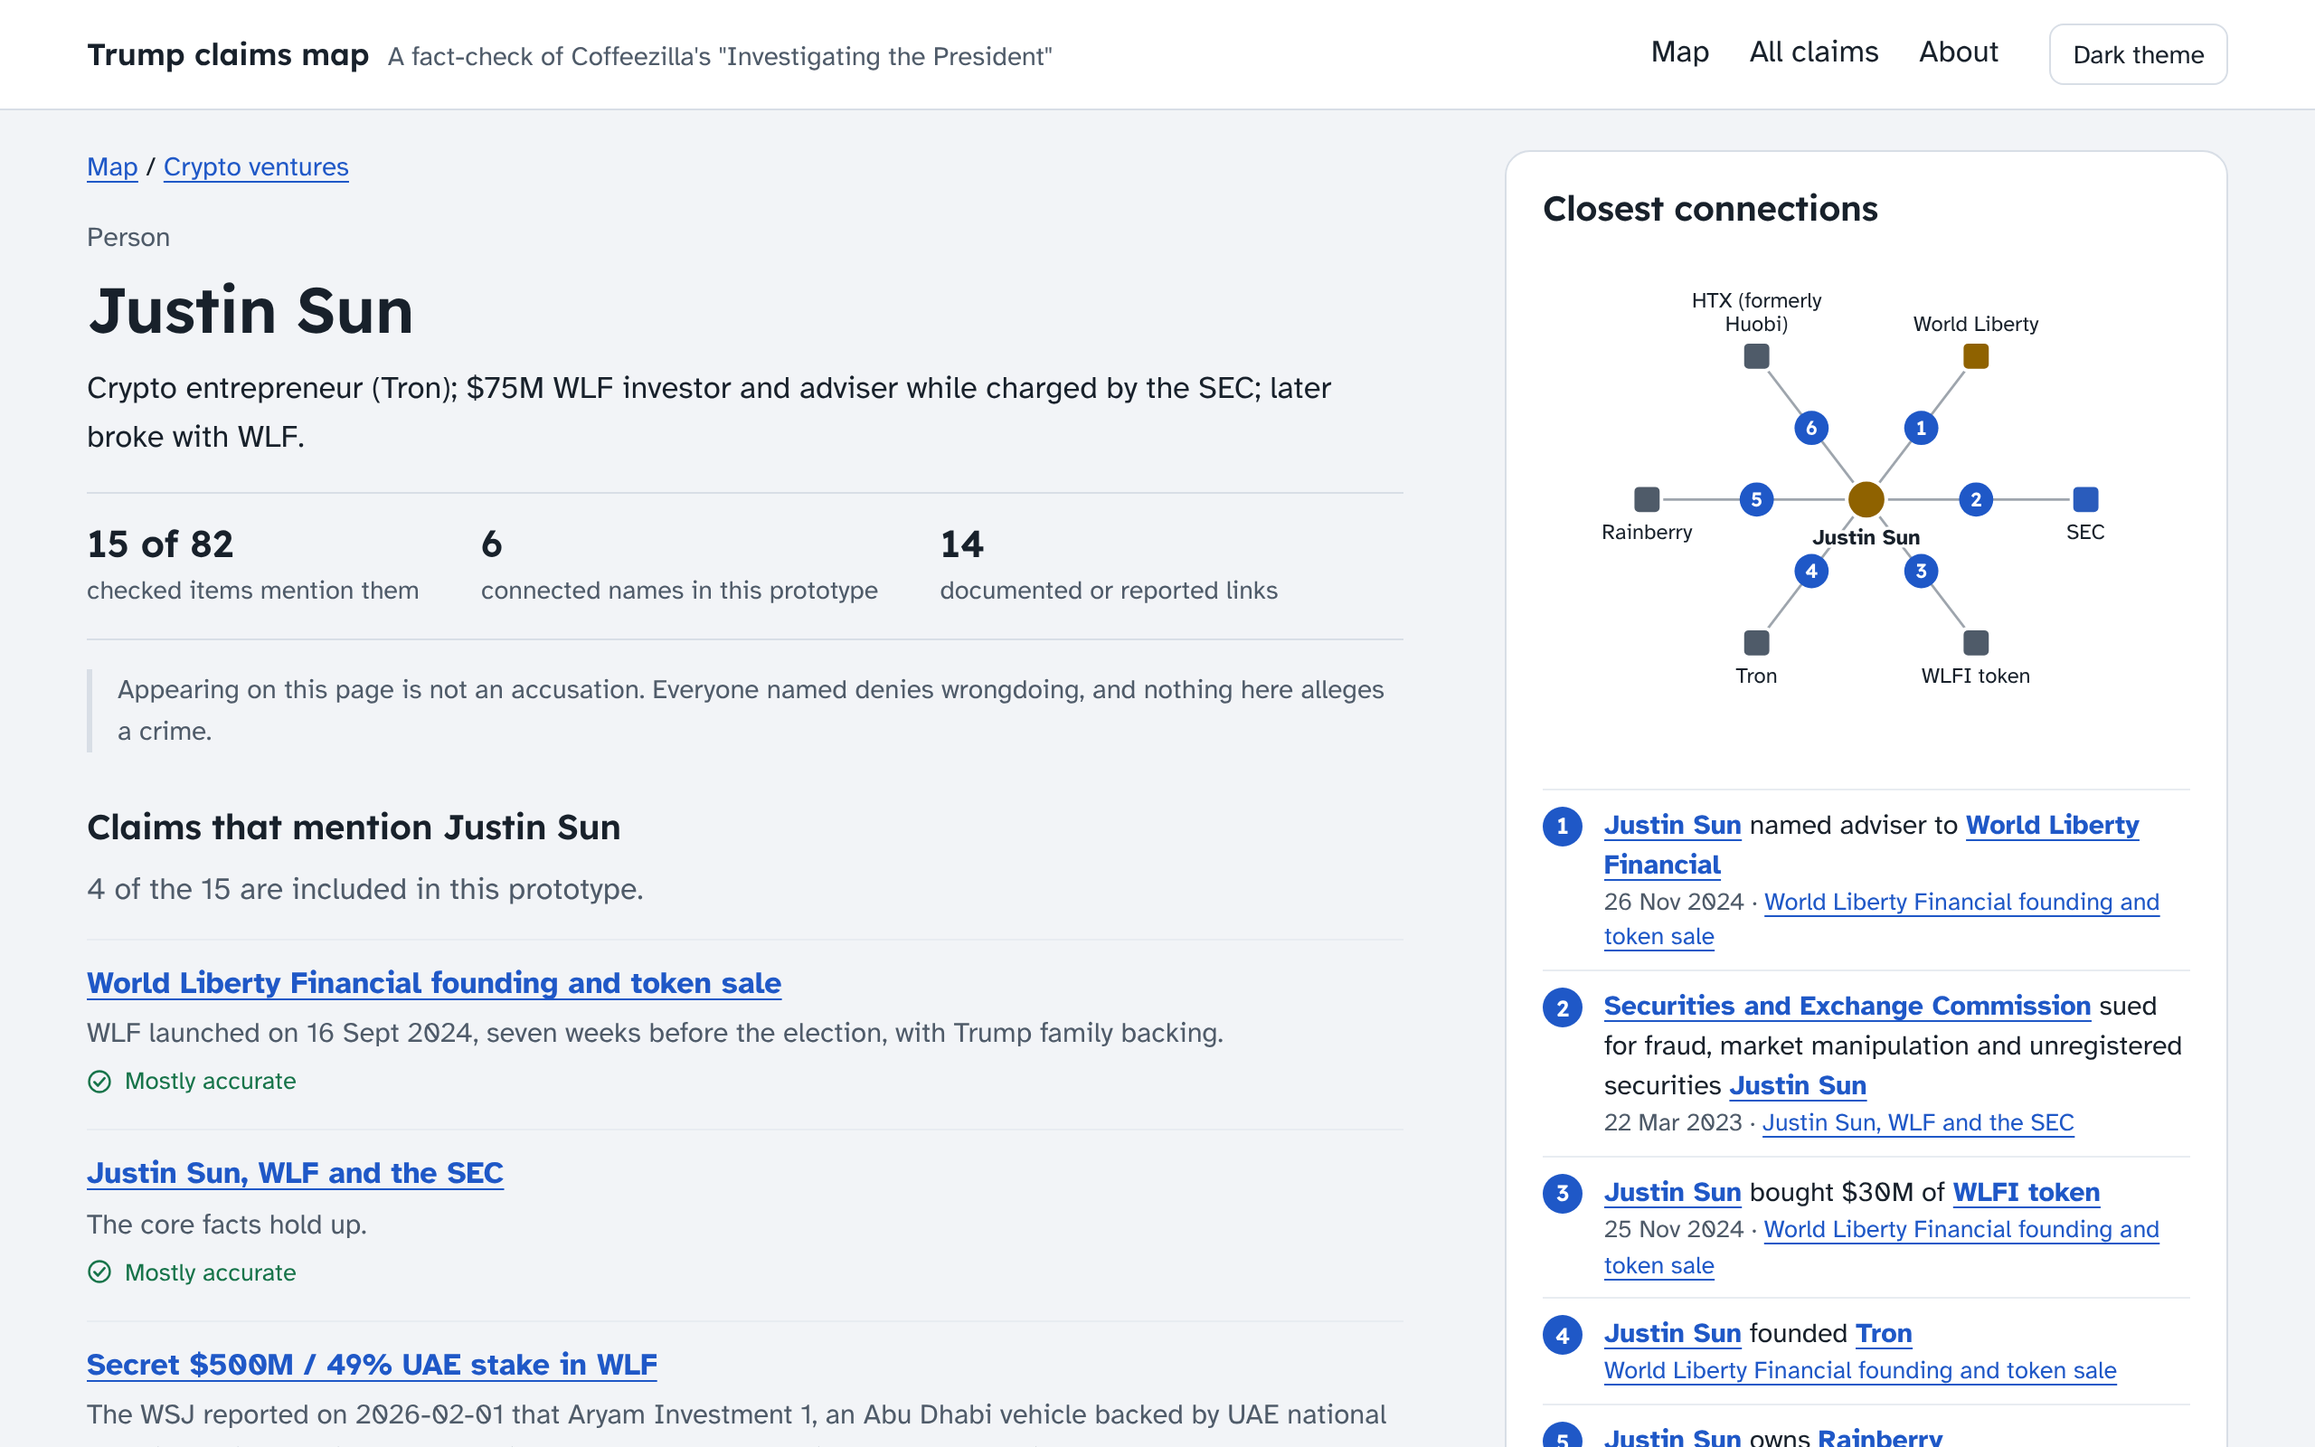
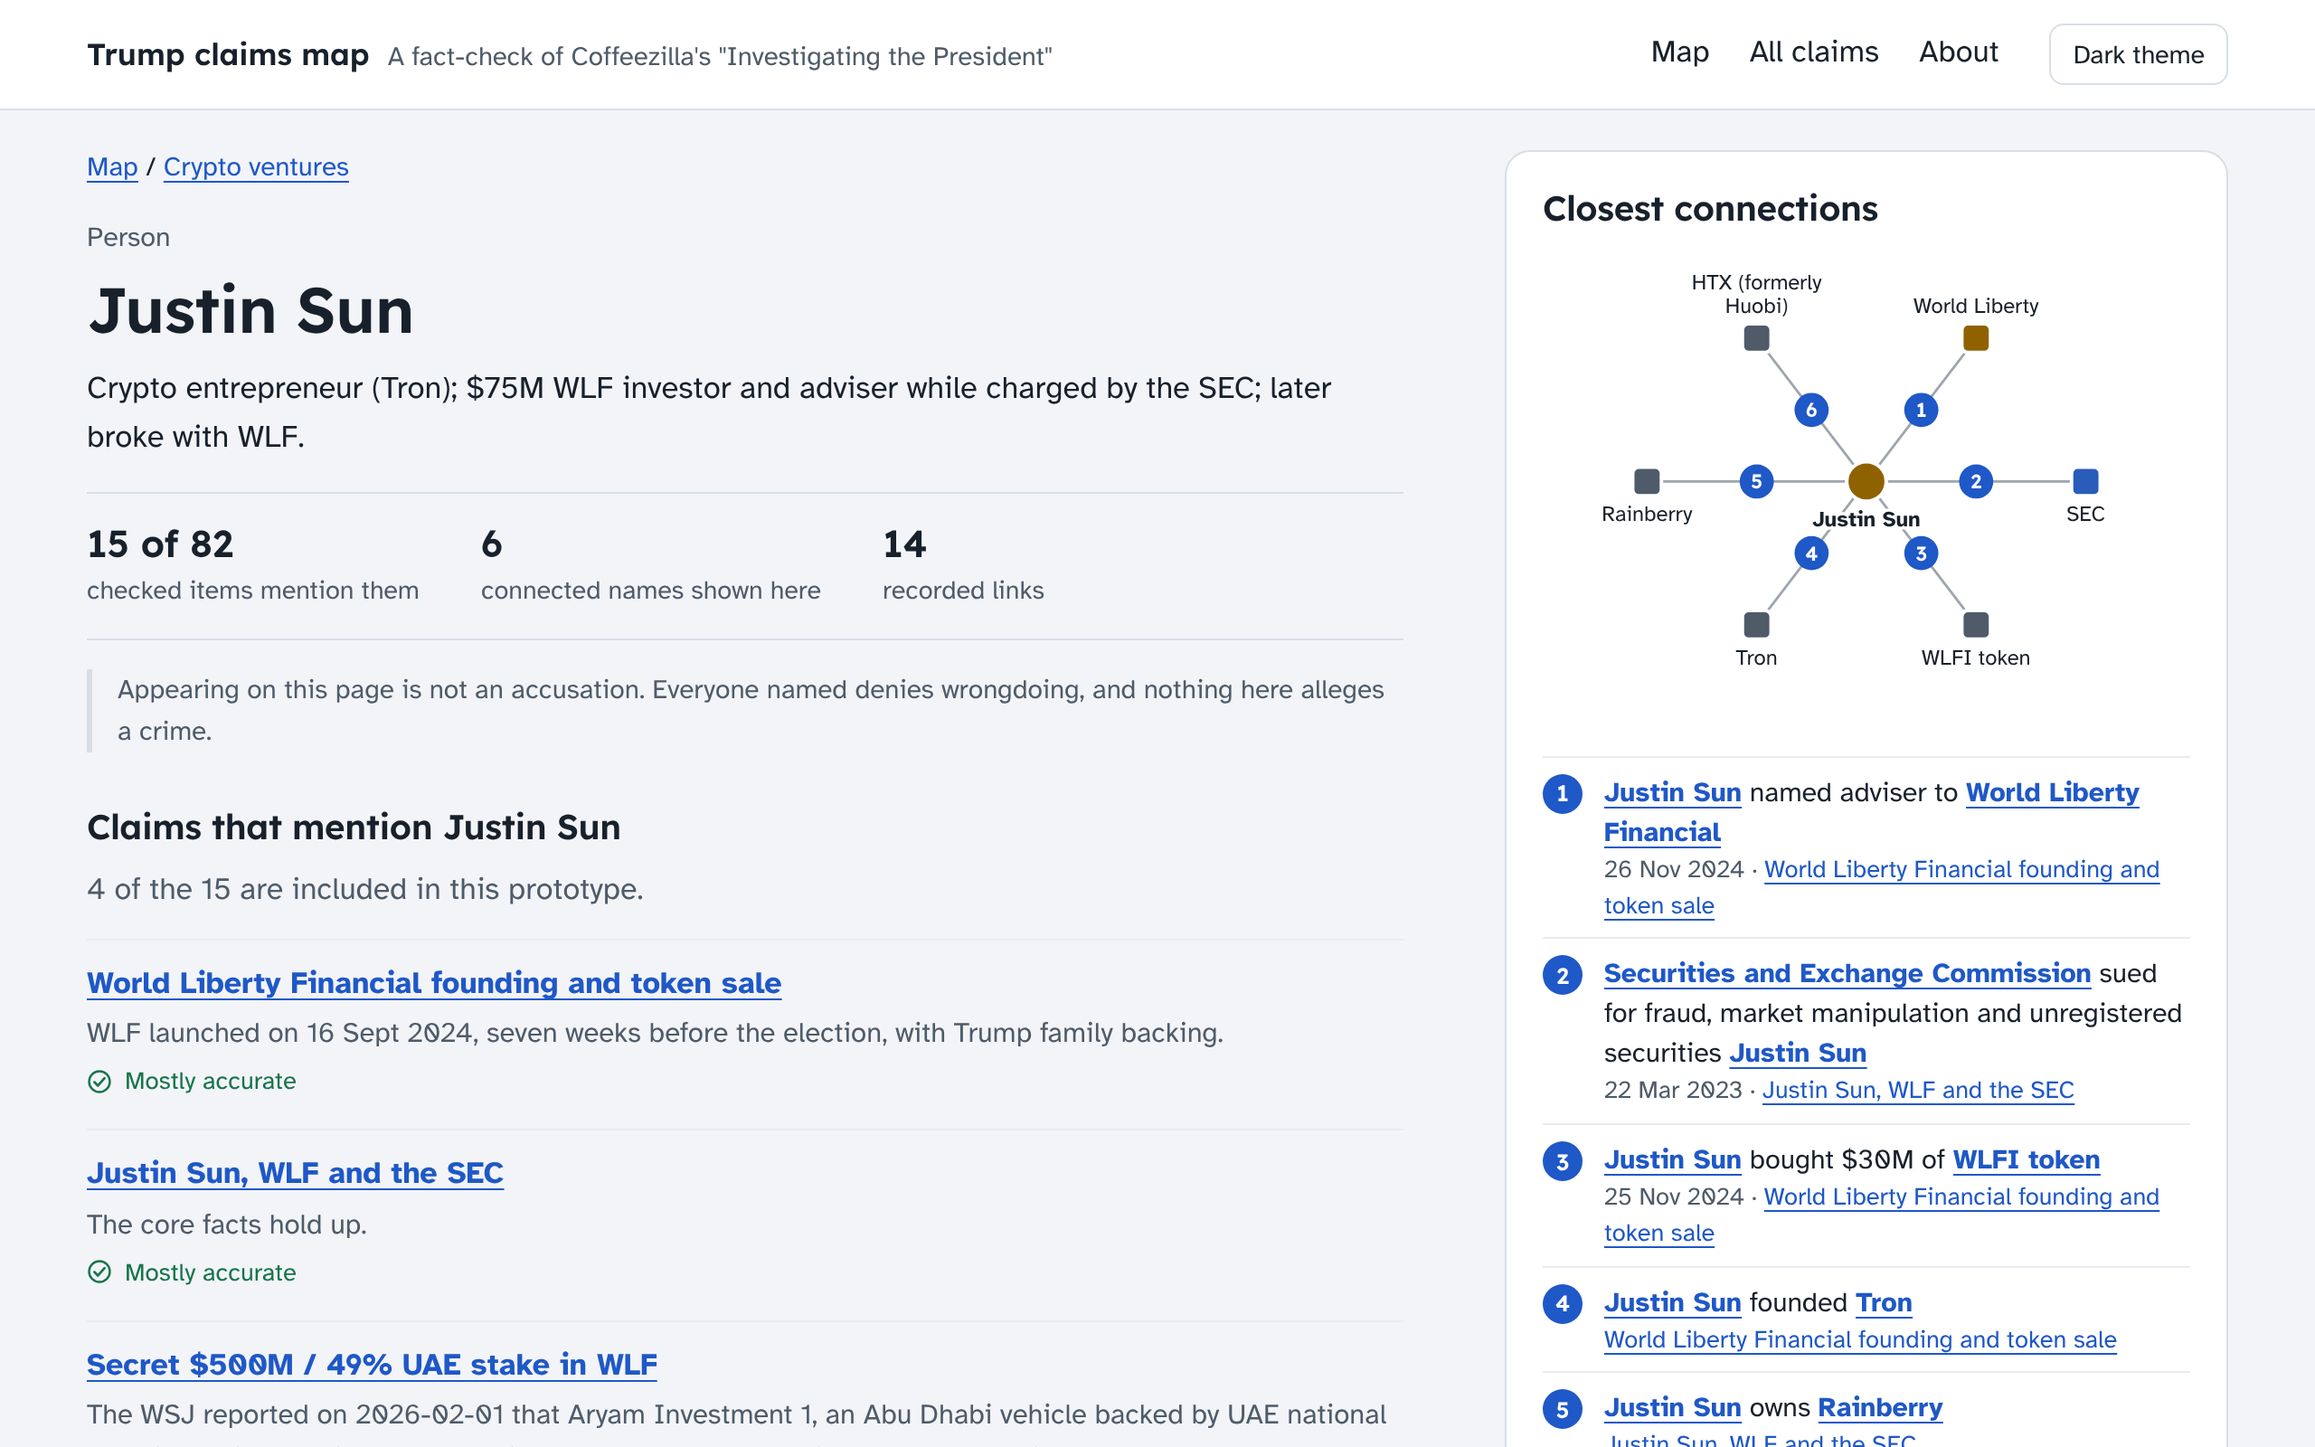
Add design concept B: explorer prototype
Claude-Session: https://claude.ai/code/session_01XYvbbQtYM3GBHoPFVLJaGe

diff --git a/design/concept-guided-map/index.html b/design/concept-guided-map/index.html
@@ -88,7 +88,7 @@ p{margin:0 0 .8em}
 
 .mapwrap{display:grid;grid-template-columns:minmax(0,1fr) 350px;background:var(--surface);border:1px solid var(--line);border-radius:14px;overflow:hidden}
 .mapbox{background:var(--map-bg);position:relative;min-width:0}
-.mapbox svg{display:block;width:100%;height:auto}
+.mapbox>svg{display:block;width:100%;height:auto}
 .panel{border-left:1px solid var(--line);padding:22px 22px 20px;min-width:0}
 .panel h2{margin-bottom:6px}
 .panel p{font-size:.97rem}
@@ -142,6 +142,7 @@ footer p{max-width:80ch}
 .isl-title{font:600 15px var(--head);fill:var(--ink);text-anchor:middle}
 .isl-sub{font:400 12.5px var(--body);text-anchor:middle}
 .lk{fill:none;stroke:var(--ink2);stroke-opacity:.38;stroke-width:1.4}
+.lk.faint{stroke-opacity:.16}
 .lk.hi{stroke:var(--accent);stroke-opacity:1;stroke-width:2.6}
 .nd{cursor:pointer}
 .nd text{font:400 12.5px var(--body);fill:var(--ink);text-anchor:middle;paint-order:stroke;stroke-width:3.5px;stroke-linejoin:round}
@@ -194,7 +195,7 @@ details{margin-top:8px}
 summary{cursor:pointer;color:var(--accent)}
 .names{list-style:none;margin:6px 0 0;padding:0;columns:2;column-gap:18px;font-size:.93rem}
 .names li{padding:2px 0;break-inside:avoid}
-.facts{display:flex;flex-wrap:wrap;gap:6px 34px;margin:16px 0 0;padding:14px 0;border-top:1px solid var(--line);border-bottom:1px solid var(--line);list-style:none}
+.facts{display:flex;flex-wrap:wrap;gap:8px 34px;margin:16px 0 0;padding:14px 0;border-top:1px solid var(--line);border-bottom:1px solid var(--line);list-style:none}
 .facts b{font:600 1.3rem var(--head);display:block}
 .facts span{font-size:.9rem;color:var(--ink2)}
 .rel{line-height:1.45}
@@ -230,6 +231,9 @@ summary{cursor:pointer;color:var(--accent)}
   .isl-sub{font-size:11.5px}
   .aside{margin:22px -16px 0;border-radius:0;border-left:0;border-right:0;padding:18px 16px 12px}
   .names{columns:1}
+  .facts{gap:8px 22px}
+  .facts b{font-size:1.15rem}
+  .facts span{font-size:.84rem}
 }
 </style>
 </head>
@@ -436,7 +440,8 @@ function linksSvg(pos,o){
     const c=curve(pos[l.a],pos[l.b],.1);
     if(hi){over+='<path class="lk hi" d="'+c.d+'"/>';
       if(o.number){k++;nums[l.id]=k;badges+='<g class="badge"><circle cx="'+c.mx.toFixed(1)+'" cy="'+c.my.toFixed(1)+'" r="9.5"/><text x="'+c.mx.toFixed(1)+'" y="'+(c.my+4).toFixed(1)+'">'+k+'</text></g>';}}
-    else if(!o.local||NODE[l.a].topic===NODE[l.b].topic)under+='<path class="lk'+((o.hiLinks||o.sel)?' dim':'')+'" d="'+c.d+'"/>';
+    else{const same=NODE[l.a].topic===NODE[l.b].topic;if(o.local&&!same)return;if(o.topic&&NODE[l.a].topic!==o.topic&&NODE[l.b].topic!==o.topic)return;
+      under+='<path class="lk'+((o.hiLinks||o.sel)?' dim':(o.topic&&!same?' faint':''))+'" d="'+c.d+'"/>';}
   });
   return {under,over,badges,nums};
 }
@@ -479,7 +484,7 @@ function drawTopic(t,o){
     pos[n.id]={x:Math.round(ix+(c+.5)*iw/cols+(r%2?(ph?10:26):-(ph?10:26))*(cols>2?1:.6)),y:Math.round(iy+(ph?80:92)+r*(ph?92:120)+(c%2?(ph?14:22):0))};
   });
   outs.forEach((n,j)=>{pos[n.id]={x:Math.round(ix+(j+.5)*iw/outs.length),y:iy+ih+(ph?50:48)}});
-  const L=linksSvg(pos,{sel:o.sel,number:!!o.sel});
+  const L=linksSvg(pos,{sel:o.sel,number:!!o.sel,topic:t});
   let s='<svg viewBox="0 0 '+W+' '+H+'" role="group" aria-label="'+esc(TOPICS[t].name)+': names and how they connect">'
    +'<path d="'+blob(ix,iy,iw,ih,2.2)+'" fill="var(--t-'+t+')" stroke="var(--s-'+t+')" stroke-opacity=".45" stroke-width="1.5"/>'
    +'<text class="isl-title" style="font-size:'+(ph?16:18)+'px" x="'+W/2+'" y="'+(iy+(ph?32:38))+'">'+esc(TOPICS[t].name)+'</text>';
@@ -546,8 +551,9 @@ function viewMap(r){
     panel=sel?panelNode(sel,m.nums,'#/','Whole map'):panelHome();
   }
   const groups={};Object.keys(CLAIM_TOPIC).forEach(c=>(groups[CLAIM_TOPIC[c]]=groups[CLAIM_TOPIC[c]]||[]).push(c));
-  return (tour&&phone()?'':'<section class="intro"><h1>What holds up in "Investigating the President"?</h1><p>An independent check of the 30 claims in Coffeezilla\'s 40-minute video, and of 52 follow-up questions.</p>'+tallyHtml()+'</section>')
-   +'<section class="mapwrap'+(tour?' tour':'')+'" style="'+(tour&&phone()?'margin-top:0':'')+'"><div class="mapbox" id="mapbox">'+m.svg+KEY+'</div><div class="panel" id="panel" aria-live="polite">'+panel+'</div></section>'
+  const compact=phone()&&r.length>0;
+  return (compact?'':'<section class="intro"><h1>What holds up in "Investigating the President"?</h1><p>An independent check of the 30 claims in Coffeezilla\'s 40-minute video, and of 52 follow-up questions.</p>'+tallyHtml()+'</section>')
+   +'<section class="mapwrap'+(tour?' tour':'')+'" style="'+(compact?'margin-top:0;border-top:0':'')+'"><div class="mapbox" id="mapbox">'+m.svg+KEY+'</div><div class="panel" id="panel" aria-live="polite">'+panel+'</div></section>'
    +'<p class="note">Everyone named denies wrongdoing, and nothing here is an accusation of a crime. A line means two names appear in the same documented relationship, not that one caused the other.</p>'
    +'<section class="section"><h2>The same claims as a list</h2><p class="muted">Everything on the map can also be read here, grouped by topic.</p><div class="topicgrid">'
    +Object.keys(groups).map(t=>'<div><h3><span class="sw" style="background:var(--t-'+t+');border-color:var(--s-'+t+')"></span><a href="#/topic/'+t+'" style="color:inherit">'+esc(TOPICS[t].name)+'</a></h3>'+claimList(groups[t])+'</div>').join('')+'</div></section>';
@@ -555,7 +561,7 @@ function viewMap(r){
 function diagram(center,rels){
   /* rels: [{s,t,l}] already numbered in order; center id */
   const others=[];rels.forEach(r=>[r.s,r.t].forEach(x=>{if(x!==center&&!others.includes(x))others.push(x)}));
-  const W=360,H=300,cx=180,cy=150,pos={};pos[center]={x:cx,y:cy};
+  const W=360,H=282,cx=180,cy=140,pos={};pos[center]={x:cx,y:cy};
   others.forEach((id,i)=>{const a=-Math.PI/2+i/others.length*Math.PI*2+(others.length%2?0:Math.PI/others.length);
     pos[id]={x:cx+122*Math.cos(a),y:cy+92*Math.sin(a)}});
   let s='<svg viewBox="0 0 '+W+' '+H+'" role="img" aria-label="Diagram of the numbered connections listed below">';
@@ -634,7 +640,7 @@ function viewName(id){
   if(n)aside+='<p style="margin:10px 0 6px"><a href="#/topic/'+n.topic+'/'+id+'">Find '+esc(e.name)+' on the map</a></p>';
   const lead='<p class="crumb"><a href="#/">Map</a>'+(n?' / <a href="#/topic/'+n.topic+'">'+esc(TOPICS[n.topic].name)+'</a>':'')+'</p>'
    +'<p class="kicker">'+(TYPE[e.type]||'Name')+'</p><h1>'+esc(e.name)+'</h1><p style="margin-top:10px;font-size:1.08rem;max-width:62ch">'+esc(e.desc)+'</p>'
-   +'<ul class="facts"><li><b>'+e.n+' of '+DATA.meta.claims+'</b><span>checked items mention '+(e.type==='person'?'them':'it')+'</span></li><li><b>'+others.size+'</b><span>connected names in this prototype</span></li><li><b>'+rels.length+'</b><span>documented or reported links</span></li></ul>'
+   +'<ul class="facts"><li><b>'+e.n+' of '+DATA.meta.claims+'</b><span>checked items mention '+(e.type==='person'?'them':'it')+'</span></li><li><b>'+others.size+'</b><span>connected names shown here</span></li><li><b>'+rels.length+'</b><span>recorded links</span></li></ul>'
    +'<p class="note" style="margin-top:16px">Appearing on this page is not an accusation. Everyone named denies wrongdoing, and nothing here alleges a crime.</p>';
   let rest='<section class="block"><h2>Claims that mention '+(e.type==='person'?esc(e.name.split(' ').slice(-1)[0]==='Jr.'?e.name:e.name):esc(e.name))+'</h2><p class="muted">'+e.claims.length+' of the '+e.n+' are included in this prototype.</p>'
     +'<ul class="items">'+e.claims.map(cid=>'<li><a class="st" href="#/claim/'+cid+'">'+esc(C[cid].title)+'</a><span class="fd">'+esc(C[cid].summary.split(/(?<=[.!?])\s/)[0])+'</span>'+vmark(C[cid].verdict)+'</li>').join('')+'</ul>'

diff --git a/design/concept-explorer/README.md b/design/concept-explorer/README.md
@@ -1,0 +1,57 @@
+# Concept B: Explorer
+
+A reference site that starts from names. You look up a person or organisation and get a profile: who they are, who they are linked to, what happened in order, how much money moved, and which checked claims mention them. Claims are the evidence behind every line, one click away.
+
+Open `index.html` directly in a browser. Screens: home (`#/`), claim (`#/claim/C05`, also `#/claim/C46` for an unverified item), profile (`#/who/justin-sun`, `#/who/jared-kushner`, `#/who/world-liberty-financial`), and a browse list (`#/browse`).
+
+## Who it is for
+
+Someone who watched the video, or heard a name in the news, and wants to ask "what is actually known about this person or company?" They are not an analyst. They arrive with a name more often than with a claim number, and they want a straight answer with the caveats attached.
+
+## Information hierarchy
+
+1. **Home**: one sentence on what this is, a large search box, the standing note, and the verdict tally. Then the most-named people and organisations, the claims with verdicts, recurring themes, and how the checking was done.
+2. **Profile** (person or organisation): name, kind and one-line description; a note that they deny wrongdoing; closest connections (small diagram); what happened in order; all connections grouped by the other party; claims that mention them; largest sums.
+3. **Claim**: what the video said; verdict, confidence and second review; bottom line; what holds up; what needs correcting; what is unproven; the other side; dated events; sources; related claims. Who is involved and the money mentioned sit alongside.
+
+Every relationship line names the actor, what they did, the date and the claim it comes from, so a reader can always get from a connection to its evidence.
+
+## Navigation
+
+Three top-level links (people and organisations, claims, how we checked) and a search box on every page. Search covers names, aliases and claim titles, works from the keyboard, and groups results by kind. Everything else is ordinary links between profiles and claims, with plain `#/...` addresses that can be shared. The browse page offers a kind filter, a text filter and two orderings; nothing more.
+
+## How the network graph is used
+
+There is no whole-network graph. Each profile has one small diagram: the subject in the middle and their eight to ten most-linked names around it. Selecting a name shows the specific documented links underneath and a link to that profile, so the reader walks the network one step at a time. Lines are plain; a dashed line marks an unverified allegation. The same relationships are always listed as text below, so the diagram is never the only way in. Two other small figures do work a graph cannot: a timeline of dated events and a strip of the largest sums, payer to recipient.
+
+## Typography and colour
+
+- **Atkinson Hyperlegible Next** for text (designed for legibility, with clearly distinct numerals, which matters on a page full of dollar figures and dates) and **Gabarito** for headings (round and friendly without being playful). Fallback is Inter, then system fonts; the screenshots show Inter because Google Fonts is blocked in the sandbox.
+- White page, dark blue-grey text, ordinary blue underlined links. It should read like a public reference work, not a tool.
+- People are round marks and everything else is square, tinted blue (people), green (companies and funds), yellow (governments and countries) or grey (media and events). The kind is always also written out.
+- Verdicts are an icon plus words: filled tick (confirmed), outlined tick (mostly accurate), half-filled circle (partly accurate), dashed circle with a question mark (unverified). Colour is secondary. Unverified items also get a dashed outline, a hatched bar and the words "Alleged, unverified" wherever they surface, including inside profiles.
+- Light theme first; dark theme follows the system setting and can be toggled.
+
+## What it deliberately leaves out
+
+- The full graph, path tracing, isolate mode, filter rails and legends.
+- Relationship-type colour coding and evidence-grade badges on every line (the data does not yet carry a grade per relationship; see below).
+- The long-form research reports. The structured findings and sources stand in for them.
+- Counts as decoration: no "degree" or "centrality" language.
+
+## Risks and open questions
+
+- **A profile can look like a charge sheet.** Collecting everything about one person on one page is the point, but it concentrates implication. The per-profile denial note, the "alleged" marks and neutral verbs help; wording needs an editorial pass on every high-profile page.
+- **It undersells the video's storyline.** A reader who wants "what did the video get right?" has to go to the claims list; the narrative across claims is weaker here than in an editorial design.
+- **Data quality shows.** The same relationship is restated across claims with different wording and dates. The prototype merges by pair, kind, month and amount, which is crude; some duplicates remain and some distinct facts may be merged.
+- **"What is unproven" is partly inferred.** Where no sub-claim is marked unverified, the prototype picks summary sentences that say something is not proven. The full build needs an explicit field.
+- Relationship labels are verb fragments ("named adviser to"); shown as "actor: label" they read acceptably but not always gracefully.
+- Should Donald Trump (81 claims, 266 connections) have a normal profile, or a specially structured one?
+
+## What the full version would involve
+
+- Extend `build.py` to emit per-entity data: merged relationships with a canonical sentence, an evidence grade and an allegation flag per relationship, and an `unproven` list per claim.
+- Split data so pages load on demand (the prototype embeds 13 of 82 claims and 270 of 1,159 names, about 375 KB, extracted from `map/graph-data.js`).
+- Theme pages, an A to Z index, and profile pages for all names, with thin "mentioned once" entries folded into their claim.
+- Search over all names, aliases, claims and sources.
+- An editorial review of descriptions and labels for neutral wording, and accessibility testing with a screen reader.
